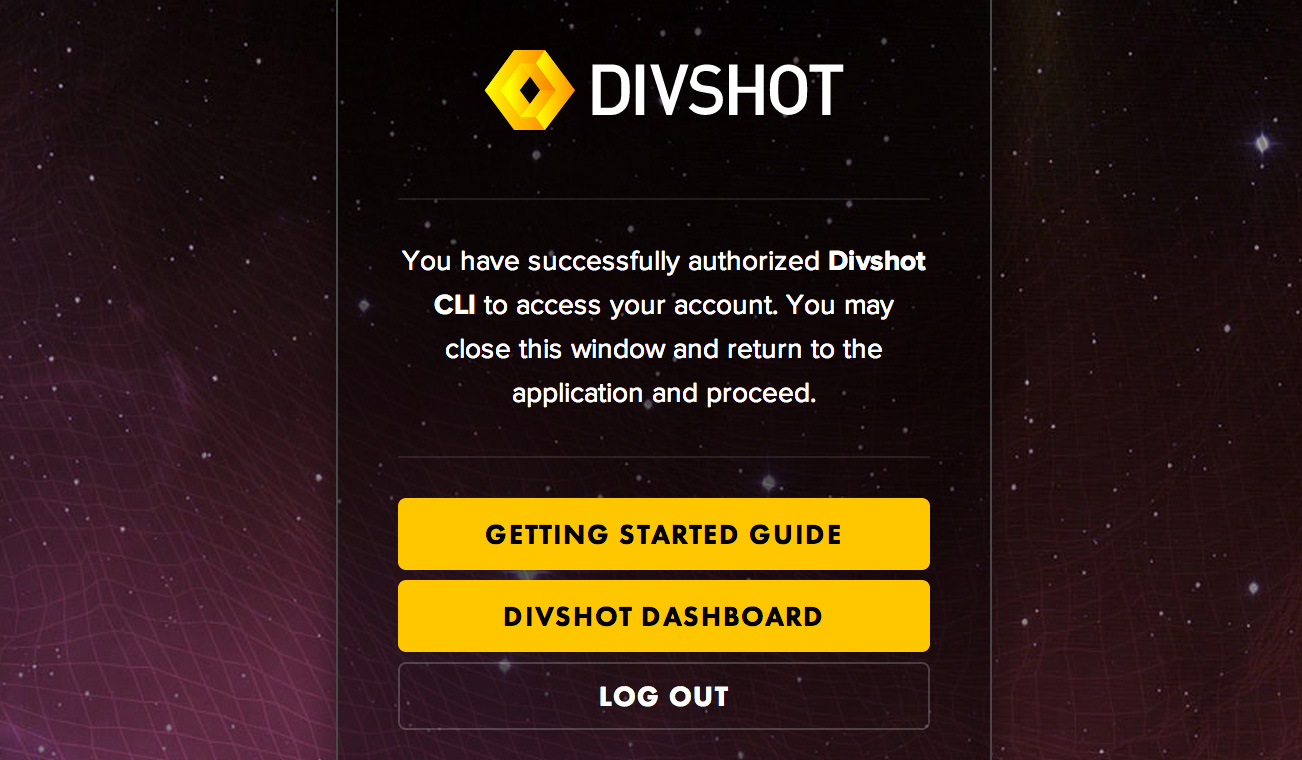
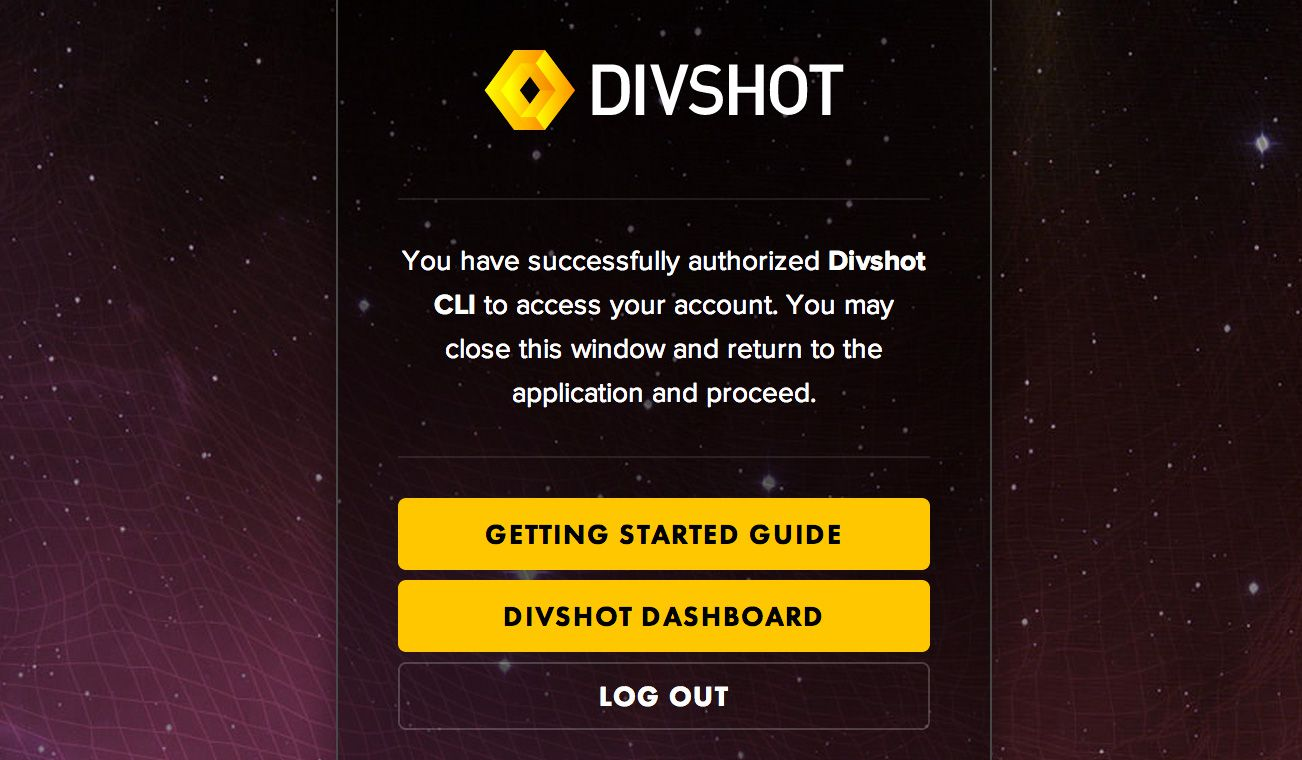
Compress and optimize guide screenshots, convert to JPG

diff --git a/guides/ssl.md b/guides/ssl.md
@@ -37,19 +37,19 @@ If you did not buy your certificate from SSLMate, certificates must be in PEM fo
 
 In Dashboard, click the name of the app you would like to install a certificate to.
 
-<img src="{% asset_path guides/ssl-app.png %}" alt="App List" class="img-responsive">
+<img src="{% asset_path guides/ssl-app.jpg %}" alt="App List" class="img-responsive">
 
 On the top right, click the gear icon to go into settings.
 
-<img src="{% asset_path guides/environments-settings.png %}" alt="Environments List" class="img-responsive">
+<img src="{% asset_path guides/environments-settings.jpg %}" alt="Environments List" class="img-responsive">
 
 Under Custom SSL, click Edit Certificate.
 
-<img src="{% asset_path guides/custom-ssl.png %}" alt="Environments List" class="img-responsive">
+<img src="{% asset_path guides/custom-ssl.jpg %}" alt="Environments List" class="img-responsive">
 
 When all the information is entered and updated, click Change Certificate.
 
-<img src="{% asset_path guides/cert.png %}" alt="Certificate" class="img-responsive" style="width: 50%;">
+<img src="{% asset_path guides/cert.jpg %}" alt="Certificate" class="img-responsive" style="width: 50%;">
 
 Let it propagate for a few minutes and you're done!
 

diff --git a/guides/domains/apex-cloudflare.md b/guides/domains/apex-cloudflare.md
@@ -17,7 +17,7 @@ First you'll want to add your domain to Divshot if you haven't already done so. 
 
 Next you'll want to add your site to CloudFlare and set up a DNS Zone File. Add two CNAME records both pointing to `your-app.divshot.io`, one for the Apex domain and the other for `www`. Make sure they're both active:
 
-<img src="{% asset_path guides/cloudflare-disable.png %}" alt="CloudFlare DNS Zone File" class="img-responsive">
+<img src="{% asset_path guides/cloudflare-disable.jpg %}" alt="CloudFlare DNS Zone File" class="img-responsive">
 
 **We highly do not recommend using CloudFlare acceleration. Under 'Active', click the orange cloud icon and disable it. It should show a gray cloud.**
 
@@ -35,7 +35,7 @@ Turn on forwarding and use the following destination URL:
 
 Your rule should look like this:
 
-<img src="{% asset_path guides/cloudflare-page-rule.png %}" alt="CloudFlare Page Rule" class="img-responsive">
+<img src="{% asset_path guides/cloudflare-page-rule.jpg %}" alt="CloudFlare Page Rule" class="img-responsive">
 
 ## Mission Complete
 

diff --git a/guides/domains/godaddy.md b/guides/domains/godaddy.md
@@ -9,20 +9,18 @@ title: "Setup with GoDaddy"
 
 ## Setup Forwarding
 
-<img src="{% asset_path guides/godaddy-1.png %}" class="img-responsive">
+<img src="{% asset_path guides/godaddy-1.jpg %}" class="img-responsive">
 
-<img src="{% asset_path guides/godaddy-2.png %}" class="img-responsive">
+<img src="{% asset_path guides/godaddy-2.jpg %}" class="img-responsive">
 
 ## Add Your Zone Record
 
-<img src="{% asset_path guides/godaddy-3.png %}" class="img-responsive">
+<img src="{% asset_path guides/godaddy-3.jpg %}" class="img-responsive">
 
 ## Verify and Test
 
-<img src="{% asset_path guides/godaddy-4.png %}" class="img-responsive">
+<img src="{% asset_path guides/godaddy-4.jpg %}" class="img-responsive">
 
+<img src="{% asset_path guides/godaddy-5.jpg %}" class="img-responsive">
 
-<img src="{% asset_path guides/godaddy-5.png %}" class="img-responsive">
-
-
-<img src="{% asset_path guides/godaddy-6.png %}" class="img-responsive">
+<img src="{% asset_path guides/godaddy-6.jpg %}" class="img-responsive">

diff --git a/guides/domains.md b/guides/domains.md
@@ -17,11 +17,11 @@ To add a custom domain to your app using the Dashboard, follow these steps:
 
 In your app list, click on `Add Domain` of the app you want to use.
 
-<img src="{% asset_path guides/domains-app.png %}" alt="Add Domain in App" class="img-responsive">
+<img src="{% asset_path guides/domains-app.jpg %}" alt="Add Domain in App" class="img-responsive">
 
 Enter your domain - it is recommended you add both `www` and `non-www` if you are not 100% sure.
 
-<img src="{% asset_path guides/app-settings.png %}" alt="App Settings" class="img-responsive">
+<img src="{% asset_path guides/app-settings-domain.jpg %}" alt="App Settings" class="img-responsive">
 
 Click Add Domain
 

diff --git a/guides/cloudflare-troubleshoot.md b/guides/cloudflare-troubleshoot.md
@@ -15,4 +15,4 @@ When using Divshot High-Performance, it is required that you disable CloudFlare 
 
 To disable, under DNS settings for your app in CloudFlare, click the orange cloud icon under 'Active' to disable CloudFlare, and show a gray cloud icon. The result is shown below.
 
-<img src="{% asset_path guides/cloudflare-disable.png %}" alt="CloudFlare DNS Zone File" class="img-responsive">
+<img src="{% asset_path guides/cloudflare-disable.jpg %}" alt="CloudFlare DNS Zone File" class="img-responsive">
